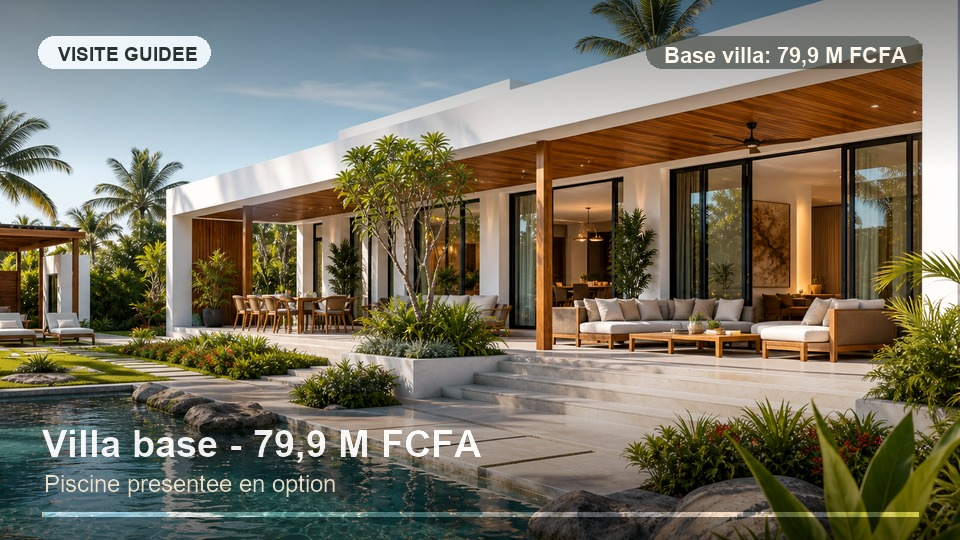
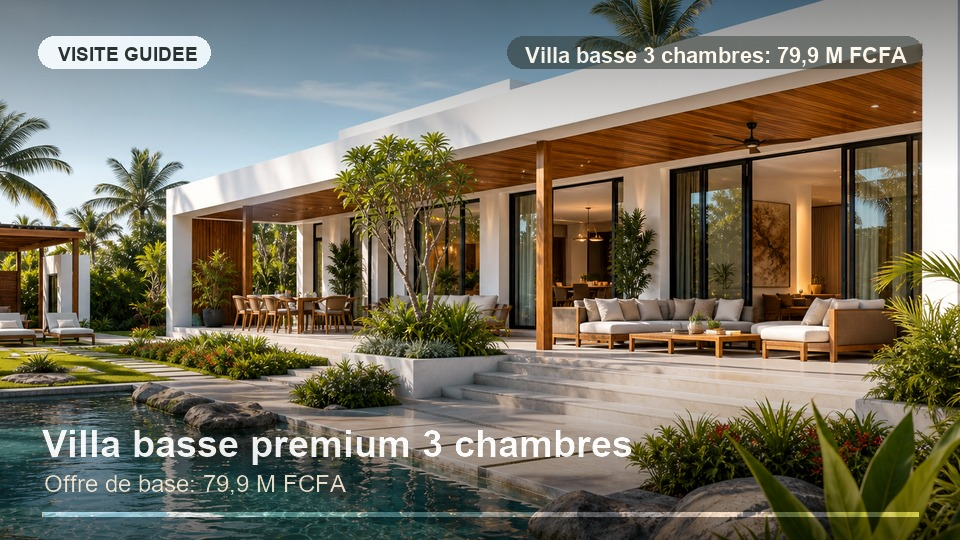
Actualise partenaires et villa basse premium

Changed region(s): [[0.0312, 0.8, 0.6562, 0.9185], [0.5312, 0.0593, 0.8125, 0.1481]]

diff --git a/server.js b/server.js
@@ -477,7 +477,7 @@ function villaGalleryVideoSection() {
           </div>
           <figure class="villa-video-player">
             <img src="${escapeHtml(video.video)}" alt="Visite guidée animée de ${escapeHtml(video.title)}" loading="eager" decoding="async">
-            <figcaption>Villa proposée avec équipements sanitaires; mobilier non inclus et piscine en option.</figcaption>
+            <figcaption>Villa basse premium 3 chambres avec cuisine meublée et équipée, cuisine africaine, buanderie, cellier et véranda bois.</figcaption>
           </figure>
         </div>
       </section>
@@ -712,15 +712,15 @@ function renderHome() {
       </section>
 
       <section class="content-band">
-        ${sectionIntro("Partenariat architectural", "ARASAKA s'appuie sur GE Architectes & Partenaires (GEAP)", "Ce partenariat renforce ARASAKA par une structure d'architecture confirmée: études préalables, conception, urbanisme, ingénierie, maîtrise d'oeuvre complète et coordination de projets d'envergure.")}
+        ${sectionIntro("Entité architecturale", "ARASAKA et GE Architectes & Partenaires (GEAP) forment une même entité", "Cette entité réunit bâtiment, architecture, urbanisme, ingénierie, maîtrise d'oeuvre complète et coordination de projets d'envergure.")}
         <div class="geap-showcase">
           <a class="geap-preview" href="/assets/geap-architectes-pressbook.pdf" target="_blank" rel="noreferrer" aria-label="Ouvrir le pressbook GE Architectes & Partenaires">
             <img src="/assets/geap-architectes-pressbook-apercu.png" alt="Extrait du pressbook GE Architectes & Partenaires">
           </a>
           <div class="geap-copy">
             <p class="kicker">Cabinet partenaire</p>
-            <h3>GE Architectes & Partenaires apporte la force d'un cabinet expérimenté aux projets ARASAKA.</h3>
-            <p>Le pressbook présente une expertise en architecture, urbanisme, ingénierie, études préalables, programmes, planification et assistance à maîtrise d'ouvrage. Pour ARASAKA, cela signifie des projets mieux cadrés, des choix architecturaux plus solides et une coordination renforcée entre conception et réalisation.</p>
+            <h3>GE Architectes & Partenaires constitue le pôle architecture, urbanisme et ingénierie de l'entité ARASAKA.</h3>
+            <p>Le pressbook présente une expertise en architecture, urbanisme, ingénierie, études préalables, programmes, planification et assistance à maîtrise d'ouvrage. Pour les projets ARASAKA, cela signifie des projets mieux cadrés, des choix architecturaux plus solides et une coordination renforcée entre conception et réalisation.</p>
             <div class="geap-proof-grid">
               <div><span>Architecture</span><strong>Equipements urbains, bureaux, logements, rénovation, réhabilitation et habitat planifié.</strong></div>
               <div><span>Urbanisme</span><strong>Schémas directeurs, restructuration, projets littoraux, réseaux et équipements urbains.</strong></div>
@@ -729,7 +729,7 @@ function renderHome() {
             </div>
             <div class="hero-actions">
               <a class="button secondary" href="/assets/geap-architectes-pressbook.pdf" target="_blank" rel="noreferrer">Consulter la fiche GEAP</a>
-              <a class="button ghost-dark" href="/qui-sommes-nous">Comprendre le partenariat</a>
+              <a class="button ghost-dark" href="/qui-sommes-nous">Comprendre l'entité</a>
             </div>
           </div>
         </div>
@@ -941,6 +941,10 @@ function renderAbout() {
             <dd>${escapeHtml(site.company.director)}</dd>
             <dt>Architecture</dt>
             <dd>${escapeHtml(site.company.architectPartner)}</dd>
+            <dt>International</dt>
+            <dd>${escapeHtml(site.company.internationalPartner)}</dd>
+            <dt>Régularité des opérations</dt>
+            <dd>${escapeHtml(site.company.legalOperationsPartner)}</dd>
             <dt>Approche</dt>
             <dd>Architecture africaine contemporaine, confort tropical et finitions haut de gamme.</dd>
           </dl>
@@ -954,7 +958,9 @@ function renderAbout() {
           <article><h3>Normes internationales</h3><p>Culture de chantier structurée, standards techniques et contrôle qualité.</p></article>
           <article><h3>Finitions soignées</h3><p>Attention portee aux matériaux, raccords, détails visibles et confort quotidien.</p></article>
           <article><h3>Projet précis</h3><p>Plans, programme, budget et choix matériaux clarifiés avant exécution.</p></article>
-          <article><h3>Partenariat GEAP</h3><p>GE Architectes & Partenaires renforce la cohérence des études, la coordination du projet, la qualité architecturale et la maîtrise des délais.</p></article>
+          <article><h3>Entité ARASAKA - GEAP</h3><p>GE Architectes & Partenaires constitue le pôle architecture, urbanisme et ingénierie de la même entité, pour renforcer la cohérence des études, la coordination du projet, la qualité architecturale et la maîtrise des délais.</p></article>
+          <article><h3>Partenaire international X-GONE BTP</h3><p>Basée à Lomé au Togo, X-GONE BTP apporte une expérience d'entreprise générale sur projets publics et privés, construction neuve, rénovation lourde, génie civil et bâtiments de prestige.</p></article>
+          <article><h3>Cabinet GR CONSULTING</h3><p>GROUPE ROYAL CONSULTING accompagne la régularité des opérations: management juridique, création, gestion, formation, assistance juridique, recouvrement et renforcement des capacités.</p></article>
         </div>
       </section>
     `,
@@ -1021,7 +1027,7 @@ function renderRemoteBuild() {
         <div>
           <p class="kicker">Ce qui est sécurisé</p>
           <h2>Un projet visible, documenté et validé à distance.</h2>
-          <p>Le suivi à distance doit rassurer: devis détaillé, calendrier, compte rendu, photos, vidéos WhatsApp, réunions visio et appels de fonds par étapes. Le partenariat avec GE Architectes & Partenaires (GEAP) aide à garder des études cohérentes et des délais mieux maîtrisés.</p>
+          <p>Le suivi à distance doit rassurer: devis détaillé, calendrier, compte rendu, photos, vidéos WhatsApp, réunions visio et appels de fonds par étapes. L'entité ARASAKA - GE Architectes & Partenaires (GEAP) aide à garder des études cohérentes et des délais mieux maîtrisés.</p>
         </div>
         <div class="trust-list">
           <span>Devis détaillé</span>

diff --git a/data/site-data.js b/data/site-data.js
@@ -120,17 +120,20 @@ const portfolioVirtualTours = [
 ];
 
 const homeVillaVideo = {
-  title: "Villa base équipée, piscine en option",
+  title: "Villa basse premium 3 chambres",
   price: "79,9 M FCFA",
   video: asset("visite-guidee-vente-villa-equipee-79m9.webp"),
   poster: asset("visite-guidee-vente-villa-equipee-79m9-poster.jpg"),
   description:
-    "Visite guidée animée d'une villa proposée à 79,9 M FCFA: façade, terrasse, séjour, cuisine, suite et salle d'eau avec équipements sanitaires. Piscine présentée en option.",
+    "Villa basse premium de 3 chambres proposée à 79,9 M FCFA: suite parentale avec salle de bain et WC, salle de bain supplémentaire, toilette visiteur, cuisine ouverte avec îlot central, cuisine africaine, buanderie, cellier et véranda couverte finition bois.",
   features: [
-    "Équipements sanitaires inclus",
-    "Salle d'eau finie",
-    "Séjour à aménager",
-    "Cuisine à préciser au devis",
+    "Suite parentale avec salle de bain et WC",
+    "Salle de bain supplémentaire",
+    "Toilette visiteur",
+    "Cuisine ouverte meublée et équipée avec îlot central",
+    "Cuisine africaine, buanderie et cellier",
+    "Finitions haut de gamme aux standards internationaux",
+    "Véranda couverte finition bois",
     "Piscine en option",
   ],
 };
@@ -154,7 +157,11 @@ module.exports = {
     director: "M. Tchotchoe Maixent",
     partner: "En collaboration avec l'entreprise Ermancia en France",
     architectPartner:
-      "Partenariat avec GE Architectes & Partenaires (GEAP), cabinet d'architecture, d'urbanisme et d'ingénierie, pour renforcer les études, la qualité des choix architecturaux, la coordination du projet et la maîtrise des délais.",
+      "ARASAKA et GE Architectes & Partenaires (GEAP) forment une seule et même entité, réunissant bâtiment, architecture, urbanisme et ingénierie pour renforcer les études, la qualité des choix architecturaux, la coordination du projet et la maîtrise des délais.",
+    internationalPartner:
+      "X-GONE BTP, partenaire international basé à Lomé au Togo, entreprise générale de construction et de rénovation active sur projets publics et privés, bâtiments de prestige et infrastructures.",
+    legalOperationsPartner:
+      "GROUPE ROYAL CONSULTING (GR CONSULTING), cabinet de management juridique en Côte d'Ivoire, accompagne la création, la gestion, la formation, l'assistance juridique, le recouvrement et la régularité des opérations.",
     standards:
       "ARASAKA travaille avec des artisans et techniciens formés dans les meilleurs lycées techniques du pays, dans une culture de chantier alignée sur les normes internationales.",
     finishPromise:
@@ -227,7 +234,7 @@ module.exports = {
     "Ventilation naturelle et confort thermique",
     "Chantier contrôlé, devis clair et reporting",
       "Pont France - Côte d'Ivoire pour la diaspora",
-      "Coordination avec GE Architectes & Partenaires (GEAP)",
+      "ARASAKA et GEAP, une même entité",
       "Finitions aux standards internationaux",
   ],
   positioning: {
@@ -447,9 +454,9 @@ module.exports = {
       short: "Programme, plans, budget, planning et standards de finition verrouillés avant exécution.",
     },
     {
-      title: "Coordination architecturale",
+      title: "Pôle architecture GEAP",
       short:
-        "Travail en partenariat avec GE Architectes & Partenaires (GEAP) pour assurer la cohérence des études, du suivi et des délais.",
+        "ARASAKA et GE Architectes & Partenaires (GEAP) agissent comme une seule entité pour assurer la cohérence des études, du suivi et des délais.",
     },
   ],
   materials: [
@@ -511,11 +518,22 @@ module.exports = {
       features: ["Plan détaillé", "Terrasse couverte", "Piscine lagon", "Baies vitrées", "Suite parentale"],
     },
     {
-      title: "Villa basse 3 chambres",
+      title: "Villa basse premium 3 chambres",
       slug: "compact",
       surface: "150 - 190 m2",
       imageKey: "whiteVillaGarden01",
-      features: ["Séjour traversant", "Suite parentale", "Véranda ombragée", "Jardin tropical"],
+      features: [
+        "Suite parentale avec salle de bain et WC",
+        "2 chambres supplémentaires",
+        "Salle de bain supplémentaire",
+        "Toilette visiteur",
+        "Cuisine ouverte meublée et équipée avec îlot central",
+        "Cuisine africaine",
+        "Buanderie",
+        "Cellier",
+        "Finitions haut de gamme aux standards internationaux",
+        "Véranda couverte finition bois",
+      ],
     },
     {
       title: "Villa familiale avec patio",
@@ -582,7 +600,7 @@ module.exports = {
       step: "02",
       title: "Avant-projet",
       text:
-        "Plans, principes de ventilation, vues, choix des espaces extérieurs et coordination avec GE Architectes & Partenaires (GEAP).",
+        "Plans, principes de ventilation, vues, choix des espaces extérieurs et coordination portée par l'entité ARASAKA - GEAP.",
     },
     {
       step: "03",
